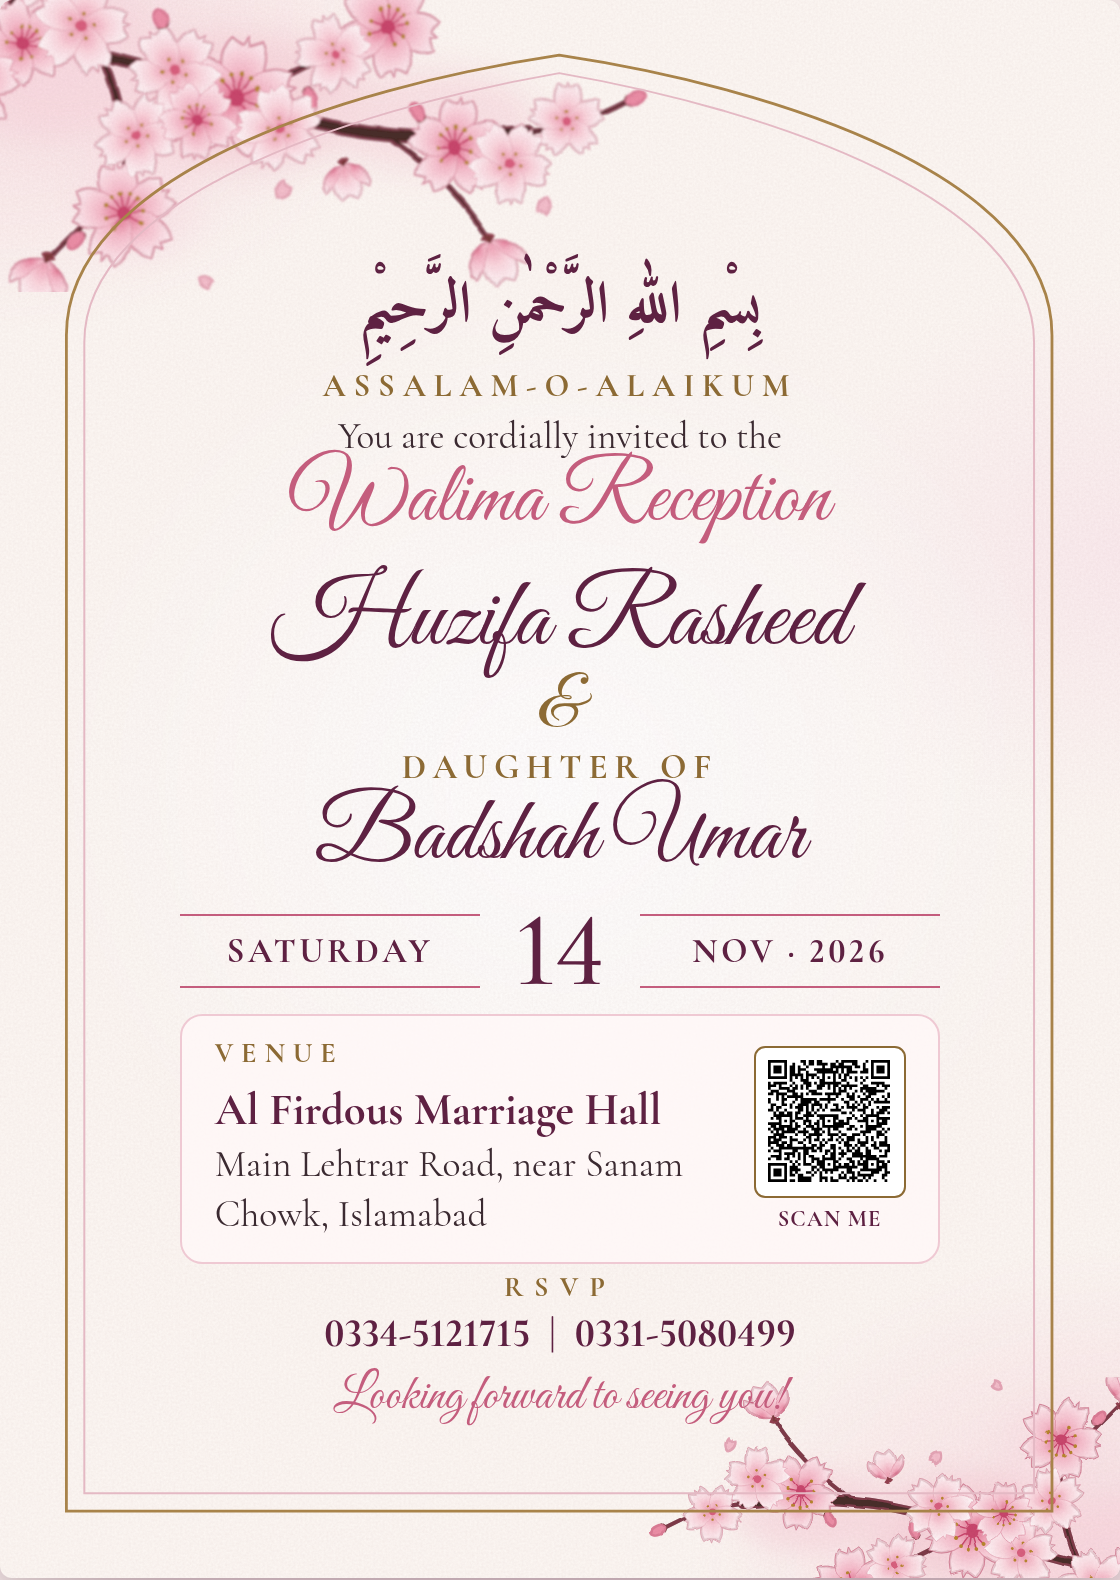
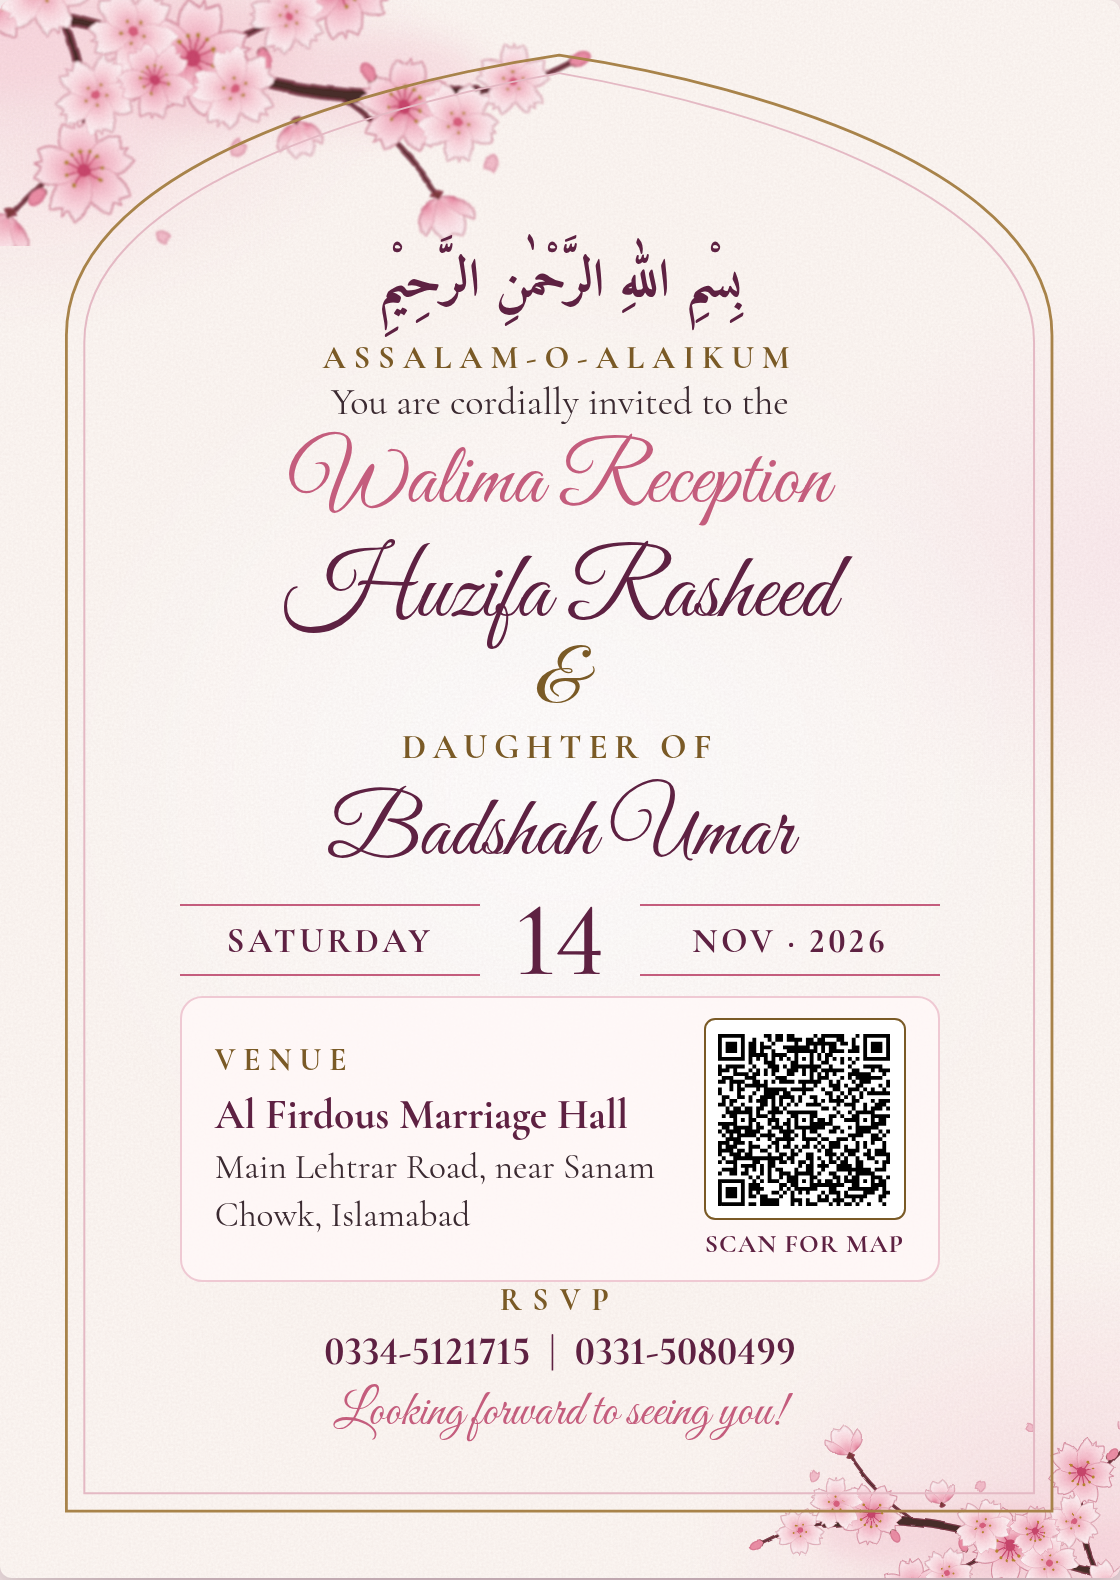
Round 3: spacing, bigger QR, darker labels

diff --git a/index.html b/index.html
@@ -13,7 +13,7 @@
 <link href="https://fonts.googleapis.com/css2?family=Amiri:wght@400;700&family=Cormorant+Garamond:ital,wght@0,400;0,500;0,600;0,700;1,500&family=Great+Vibes&display=swap" rel="stylesheet">
 <style>
 :root{
-  --plum:#5e2142; --plum-2:#7d3459; --rose:#c45d7d; --sakura:#f5c3cf; --gold:#8c6a34;
+  --plum:#5e2142; --plum-2:#7d3459; --rose:#c45d7d; --sakura:#f5c3cf; --gold:#7a5a26;
   --paper:#fdf8f4; --ink:#3b2a31; --page:#f3e6e6;
 }
 *{box-sizing:border-box;margin:0}
@@ -30,30 +30,30 @@ body{background:var(--page);color:var(--ink);font-family:"Cormorant Garamond",Ge
     radial-gradient(ellipse 40% 25% at 100% 35%,#fbecef 0,transparent 70%)}
 .frame{position:absolute;inset:4cqw;width:92cqw;height:133cqw;pointer-events:none}
 .branch{position:absolute;pointer-events:none}
-.branch.tl{top:-7cqw;left:-7cqw;width:66cqw}
-.branch.br{bottom:-8cqw;right:-9cqw;width:52cqw;transform:rotate(180deg)}
+.branch.tl{top:-10cqw;left:-10cqw;width:64cqw}
+.branch.br{bottom:-7cqw;right:-8cqw;width:42cqw;transform:rotate(180deg)}
 .petal-fall{position:absolute;inset:0;pointer-events:none}
 
-.content{position:absolute;inset:0;display:flex;flex-direction:column;align-items:center;text-align:center;padding:23.5cqw 16cqw 13.5cqw;justify-content:space-between}
-.bism{font-family:Amiri,serif;font-weight:700;font-size:5.2cqw;color:var(--plum);line-height:1.5;direction:rtl}
+.content{position:absolute;inset:0;display:flex;flex-direction:column;align-items:center;text-align:center;padding:22cqw 16cqw 13cqw;justify-content:space-between}
+.bism{font-family:Amiri,serif;font-weight:700;font-size:4.7cqw;color:var(--plum);line-height:1.45;direction:rtl}
 .salam{margin-top:1.4cqw;font-size:2.9cqw;letter-spacing:.7cqw;text-transform:uppercase;color:var(--gold);font-weight:700}
-.lede{font-size:3.3cqw;line-height:1.3;color:var(--ink)}
-.walima{font-family:"Great Vibes",cursive;font-size:7.6cqw;color:var(--rose);line-height:1}
+.lede{font-size:3.4cqw;line-height:1.3;color:var(--ink)}
+.walima{font-family:"Great Vibes",cursive;font-size:7.6cqw;color:var(--rose);line-height:1;margin-top:1.2cqw}
 .names{display:flex;flex-direction:column;align-items:center;margin-top:1.5cqw}
-.name{font-family:"Great Vibes",cursive;color:var(--plum);line-height:1.1;font-size:8.8cqw}
-.amp{font-family:"Great Vibes",cursive;color:var(--gold);font-size:6.4cqw;line-height:.9}
-.bride{font-size:3.1cqw;letter-spacing:.6cqw;text-transform:uppercase;color:var(--gold);font-weight:700;margin-top:.4cqw}
-.bride + .name{font-size:8.2cqw}
+.name{font-family:"Great Vibes",cursive;color:var(--plum);line-height:1.1;font-size:8.4cqw}
+.amp{font-family:"Great Vibes",cursive;color:var(--gold);font-size:7cqw;line-height:.95}
+.bride{font-size:3.1cqw;letter-spacing:.6cqw;text-transform:uppercase;color:var(--gold);font-weight:700;margin:.4cqw 0 1.8cqw}
+.bride + .name{font-size:7.8cqw}
 .when{width:100%;color:var(--plum)}
 .month,.year{font-size:3.1cqw;letter-spacing:1.1cqw;text-transform:uppercase;color:var(--gold);font-weight:700}
 .date{display:grid;grid-template-columns:1fr auto 1fr;align-items:center;gap:3cqw;margin:1cqw 0}
 .date .side{border-top:.22cqw solid var(--rose);border-bottom:.22cqw solid var(--rose);padding:1.2cqw 0;font-size:3.1cqw;font-weight:700;letter-spacing:.3cqw;white-space:nowrap;text-transform:uppercase}
 .date .day{font-size:9.5cqw;font-weight:500;line-height:.85}
-.venue-row{display:flex;align-items:center;gap:4cqw;text-align:left;width:100%;background:#fff8f8cc;border:.2cqw solid #efc9d3;border-radius:2cqw;padding:1.8cqw 3cqw}
-.venue{flex:1;font-size:3.35cqw;line-height:1.35}
-.venue small,.rsvp small{display:block;font-size:2.5cqw;letter-spacing:.7cqw;text-transform:uppercase;color:var(--gold);font-weight:700;margin-bottom:.5cqw}
-.venue strong{color:var(--plum);font-weight:700;font-size:4cqw;display:block}
-.qr{flex:none;width:13.5cqw;text-align:center;font-size:2cqw;letter-spacing:.1cqw;white-space:nowrap;color:var(--plum);text-transform:uppercase;font-weight:700}
+.venue-row{display:flex;align-items:center;gap:3cqw;text-align:left;width:100%;background:#fff8f8cc;border:.2cqw solid #efc9d3;border-radius:2cqw;padding:1.8cqw 3cqw}
+.venue{flex:1;font-size:3.15cqw;line-height:1.35}
+.venue small,.rsvp small{display:block;font-size:2.8cqw;letter-spacing:.7cqw;text-transform:uppercase;color:var(--gold);font-weight:700;margin-bottom:.5cqw}
+.venue strong{color:var(--plum);font-weight:700;font-size:3.7cqw;display:block;white-space:nowrap}
+.qr{flex:none;width:18cqw;text-align:center;font-size:2.3cqw;letter-spacing:.1cqw;white-space:nowrap;color:var(--plum);text-transform:uppercase;font-weight:700}
 .qr a{display:block;background:#fff;padding:1.1cqw;border:.22cqw solid var(--gold);border-radius:1cqw;margin-bottom:.7cqw}
 .qr img{display:block;width:100%;height:auto}
 .rsvp{font-size:3.6cqw;color:var(--plum)}
@@ -219,7 +219,7 @@ body{background:var(--page);color:var(--ink);font-family:"Cormorant Garamond",Ge
       </div>
       <div class="qr">
         <a href="https://www.google.com/maps/search/?api=1&query=Al+Firdous+Marriage+Hall%2C+Lehtrar+Road%2C+Sanam+Chowk%2C+Islamabad" aria-label="Open venue in Google Maps"><img src="qr.svg" alt="QR code to the venue on Google Maps"></a>
-        Scan me
+        Scan for map
       </div>
     </div>
     <div>
